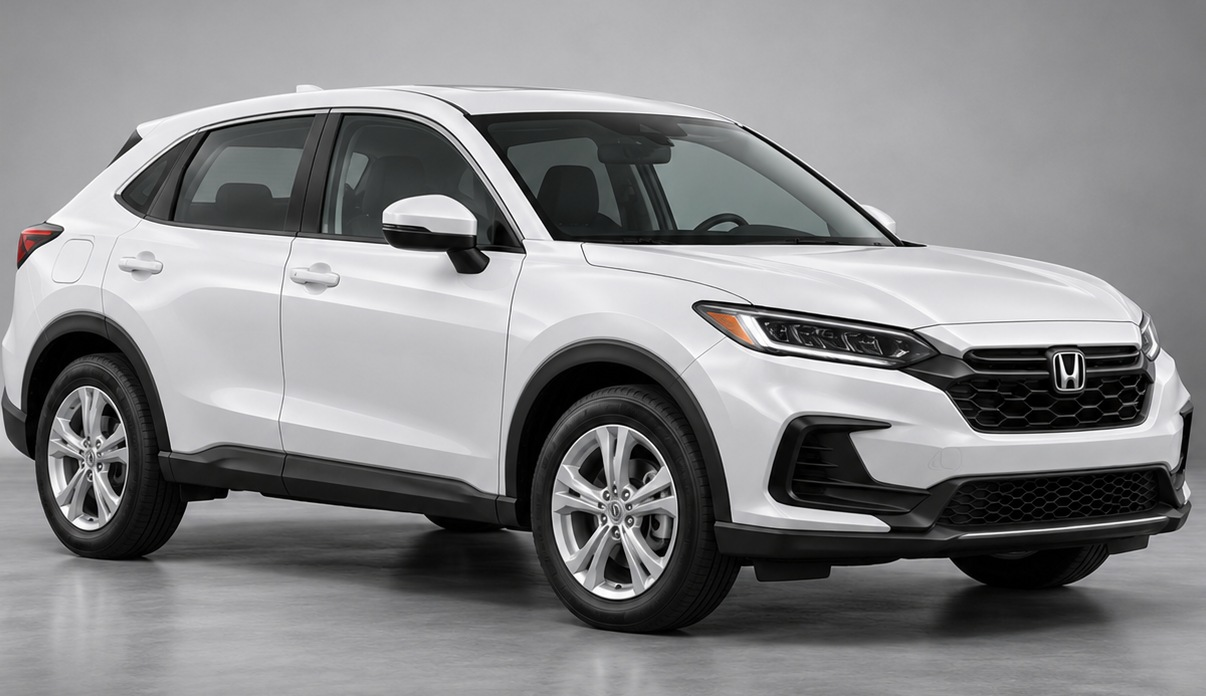
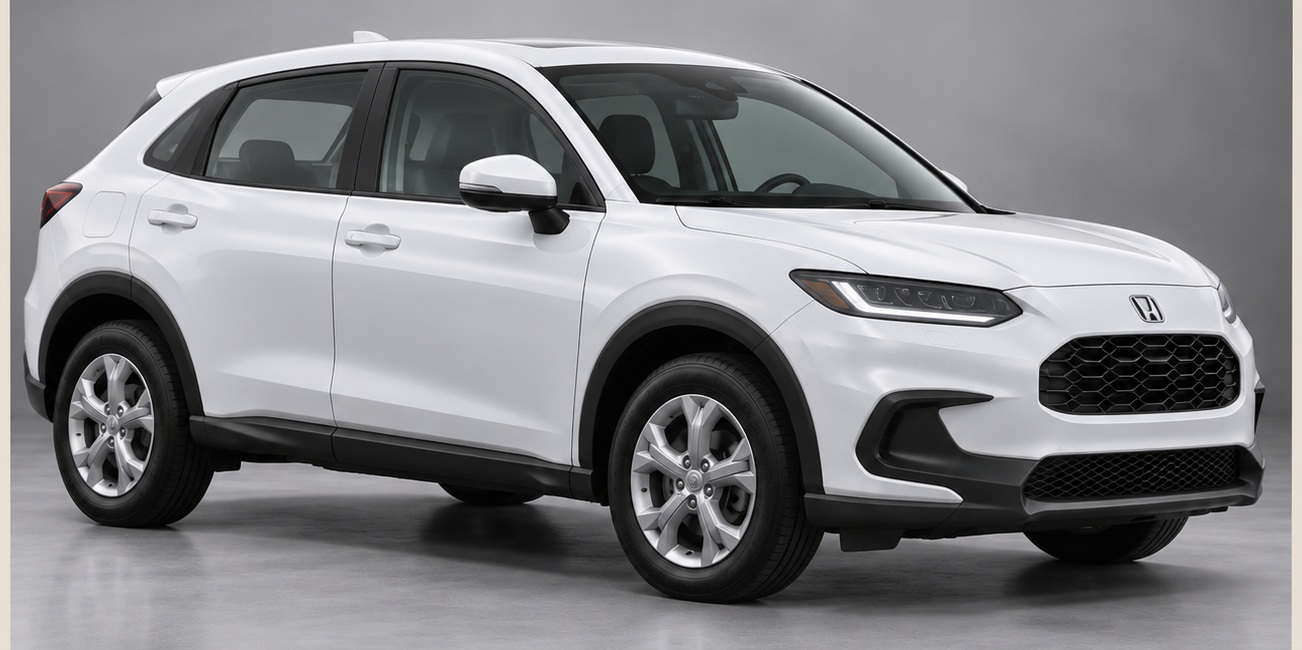
Add files via upload

diff --git a/style.css b/style.css
@@ -316,3 +316,166 @@ body{font-size:18px;line-height:1.72}
  .sticky-phone .sticky-arrow{right:8px!important;font-size:16px!important}
 }
 @media(max-width:370px){.logo{font-size:10px!important}.logo-symbol{width:32px!important;height:32px!important;flex-basis:32px!important}.head-call-copy{display:none!important}.head-call{padding:6px!important}.sticky-call b{font-size:10px!important}.sticky-call small{font-size:9px!important}.sticky-call>a.sticky-phone{flex-basis:52%!important}.sticky-phone strong{font-size:10.5px!important}}
+
+/* Final pass: consistent edge-to-edge card framing without an image-within-image effect. */
+.car-visual{overflow:hidden!important;background:#c9c7c2!important;border-radius:inherit}
+.car-visual .car-img{display:block!important;width:100%!important;height:100%!important;object-fit:contain!important;object-position:center center!important;padding:0!important;border:0!important;border-radius:0!important;background:transparent!important;box-shadow:none!important}
+.modal-photo{overflow:hidden!important;background:#c9c7c2!important;min-height:320px}
+.modal-photo::before,.modal-photo::after{display:none!important;content:none!important}
+.modal-photo img{display:block!important;width:100%!important;height:100%!important;object-fit:contain!important;object-position:center!important;padding:0!important;border:0!important;border-radius:0!important;background:transparent!important;box-shadow:none!important}
+.modal-body{padding-top:34px!important}
+.modal-kicker{visibility:visible!important;opacity:1!important;display:block!important;margin-top:0!important;padding-top:0!important;line-height:1.6!important}
+@media(max-width:620px){.modal-photo{height:clamp(230px,68vw,330px)!important;min-height:0!important}.modal-body{padding:25px 22px 28px!important}.modal-kicker{font-size:10px!important;letter-spacing:1.2px!important}.car-visual .car-img{object-fit:contain!important;padding:0!important}.sticky-call{min-height:78px!important;padding:9px 3% calc(9px + env(safe-area-inset-bottom))!important}.sticky-call b{font-size:clamp(11px,3.2vw,14px)!important}.sticky-call small{font-size:clamp(10px,2.9vw,12px)!important}.sticky-phone strong{font-size:clamp(11px,3.2vw,14px)!important}}
+
+/* Final vehicle-photo pass: preserve the complete vehicle and avoid nested image frames */
+.car-visual{background:#d4d0c8!important;overflow:hidden!important}
+.car-card .car-img{object-fit:contain!important;object-position:center center!important;inset:0!important;width:100%!important;height:100%!important;padding:8px 10px!important;transform:none!important;filter:none!important}
+.car-card:hover .car-img{transform:scale(1.015)!important}
+.modal-photo{background:#d4d0c8!important;overflow:hidden!important;display:flex!important;align-items:center!important;justify-content:center!important;padding:0!important}
+.modal-photo img{object-fit:contain!important;object-position:center center!important;width:100%!important;height:100%!important;max-height:100%!important;padding:0!important;filter:none!important}
+.modal-photo .category{z-index:2}
+@media(max-width:850px){.modal-photo{height:clamp(220px,42vw,330px)!important;min-height:220px!important}.modal-photo img{width:100%!important;height:100%!important;object-fit:contain!important;padding:0!important}}
+@media(max-width:620px){.car-card .car-visual{height:clamp(220px,62vw,300px)!important}.car-card .car-img{padding:4px 6px!important}.modal-photo{height:230px!important;min-height:230px!important}.modal-photo img{height:100%!important;object-fit:contain!important;padding:0!important}}
+
+/* FINAL FIX — remove the visible inner photo rectangle from every vehicle card */
+.car-visual{position:relative!important;overflow:hidden!important;background:#c9c7c2!important;}
+.car-visual .visual-pattern{display:none!important;}
+.car-visual .car-img{display:block!important;position:absolute!important;inset:0!important;width:100%!important;height:100%!important;max-width:none!important;max-height:none!important;object-fit:cover!important;object-position:center 58%!important;padding:0!important;margin:0!important;border:0!important;border-radius:0!important;background:transparent!important;box-shadow:none!important;filter:none!important;transform:none!important;}
+.car-card:hover .car-visual .car-img{transform:scale(1.025)!important;}
+@media(max-width:620px){.car-visual{height:clamp(280px,72vw,370px)!important}.car-visual .car-img{object-fit:cover!important;object-position:center 58%!important;padding:0!important}}
+
+
+/* FINAL OVERRIDE — keep every full vehicle visible in listing cards. */
+.car-visual{
+  position:relative!important;
+  height:clamp(260px, 32vw, 390px)!important;
+  min-height:260px!important;
+  overflow:hidden!important;
+  background:#c9c7c2!important;
+  border-radius:inherit!important;
+}
+.car-visual .visual-pattern{display:none!important}
+.car-visual .car-img{
+  position:absolute!important;inset:0!important;display:block!important;
+  width:100%!important;height:100%!important;max-width:100%!important;max-height:100%!important;
+  object-fit:contain!important;object-position:center center!important;
+  padding:8px!important;margin:0!important;border:0!important;border-radius:0!important;
+  background:transparent!important;box-shadow:none!important;filter:none!important;
+  transform:none!important;
+}
+.car-card:hover .car-visual .car-img{transform:none!important}
+.modal-photo{
+  position:relative!important;display:flex!important;align-items:center!important;justify-content:center!important;
+  overflow:hidden!important;min-height:0!important;height:100%!important;padding:0!important;
+  background:#c9c7c2!important;
+}
+.modal-photo::before,.modal-photo::after{display:none!important;content:none!important}
+.modal-photo #modalImage{
+  display:block!important;position:absolute!important;inset:0!important;
+  width:100%!important;height:100%!important;max-width:100%!important;max-height:100%!important;
+  object-fit:cover!important;object-position:center center!important;
+  padding:0!important;margin:0!important;border:0!important;border-radius:0!important;
+  background:transparent!important;box-shadow:none!important;filter:none!important;
+}
+@media(max-width:850px){
+  .car-visual{height:clamp(260px,55vw,350px)!important;min-height:260px!important}
+  .modal-photo{height:clamp(250px,58vw,360px)!important;min-height:250px!important}
+}
+@media(max-width:620px){
+  .car-visual{height:clamp(260px,72vw,340px)!important;min-height:260px!important}
+  .car-visual .car-img{padding:4px!important}
+  .modal-box{display:block!important;overflow:auto!important}
+  .modal-photo{height:clamp(240px,68vw,320px)!important;min-height:240px!important}
+  .modal-photo #modalImage{object-fit:cover!important;object-position:center center!important}
+}
+
+
+/* Definitive vehicle framing: show the complete landscape photo, never crop the car or use square modal composites. */
+.car-visual{
+  background:#b8b7ba!important;
+  overflow:hidden!important;
+}
+.car-visual .car-img{
+  position:absolute!important; inset:0!important;
+  width:100%!important; height:100%!important;
+  object-fit:contain!important; object-position:center center!important;
+  padding:0!important; margin:0!important;
+  border:0!important; border-radius:0!important;
+  background:transparent!important; box-shadow:none!important; filter:none!important;
+  transform:none!important;
+}
+.car-card:hover .car-visual .car-img{transform:none!important}
+.modal-photo{
+  position:relative!important; display:flex!important; align-items:center!important; justify-content:center!important;
+  overflow:hidden!important; background:#b8b7ba!important; padding:0!important;
+}
+.modal-photo::before,.modal-photo::after{display:none!important;content:none!important}
+.modal-photo #modalImage{
+  position:relative!important; inset:auto!important; display:block!important;
+  width:100%!important; height:100%!important; max-width:100%!important; max-height:100%!important;
+  object-fit:contain!important; object-position:center center!important;
+  padding:0!important; margin:0!important; border:0!important; border-radius:0!important;
+  background:transparent!important; box-shadow:none!important; filter:none!important;
+}
+@media(max-width:850px){
+ .car-visual{height:clamp(260px,55vw,350px)!important;min-height:260px!important}
+ .modal-photo{height:clamp(250px,58vw,360px)!important;min-height:250px!important}
+}
+@media(max-width:620px){
+ .car-visual{height:clamp(260px,72vw,340px)!important;min-height:260px!important}
+ .car-visual .car-img{padding:0!important;object-fit:contain!important}
+ .modal-photo{height:clamp(240px,68vw,320px)!important;min-height:240px!important}
+ .modal-photo #modalImage{object-fit:contain!important}
+}
+
+/* AUTO ALOHA FINAL PHOTO ART DIRECTION
+   The actual image files now contain the extended gray studio backdrop. Fill the whole visual area with those files. */
+.car-visual{
+  height:auto!important;
+  aspect-ratio:2.2 / 1!important;
+  min-height:0!important;
+  background:#b7b6b9!important;
+  overflow:hidden!important;
+  border-radius:19px 19px 0 0!important;
+}
+.car-visual .visual-pattern{display:none!important}
+.car-visual .car-img{
+  position:absolute!important;inset:0!important;display:block!important;
+  width:100%!important;height:100%!important;max-width:none!important;max-height:none!important;
+  object-fit:cover!important;object-position:center center!important;
+  padding:0!important;margin:0!important;border:0!important;border-radius:0!important;
+  background:transparent!important;box-shadow:none!important;filter:none!important;transform:none!important;
+}
+.car-card:hover .car-visual .car-img{transform:none!important}
+.modal-box{
+  width:min(1080px,94vw)!important;
+  height:min(680px,90vh)!important;
+  max-height:90vh!important;
+  grid-template-columns:1fr 1fr!important;
+  overflow:hidden!important;
+}
+.modal-photo{
+  position:relative!important;display:flex!important;align-items:center!important;justify-content:center!important;
+  height:100%!important;min-height:0!important;padding:0!important;overflow:hidden!important;
+  background:#b7b6b9!important;border-radius:0!important;
+}
+.modal-photo::before,.modal-photo::after{display:none!important;content:none!important}
+.modal-photo #modalImage{
+  position:relative!important;inset:auto!important;display:block!important;
+  width:100%!important;height:100%!important;max-width:100%!important;max-height:100%!important;
+  object-fit:contain!important;object-position:center center!important;
+  padding:0!important;margin:0!important;border:0!important;border-radius:0!important;
+  background:transparent!important;box-shadow:none!important;filter:none!important;transform:none!important;
+}
+@media(max-width:850px){
+  .car-visual{aspect-ratio:2.05 / 1!important}
+  .modal-box{width:min(700px,94vw)!important;height:min(88vh,760px)!important;grid-template-columns:1fr 1fr!important}
+}
+@media(max-width:620px){
+  .car-visual{aspect-ratio:1.95 / 1!important;height:auto!important;min-height:0!important}
+  .car-card .car-img{object-fit:cover!important;padding:0!important}
+  .modal-box{display:block!important;width:94vw!important;height:90dvh!important;max-height:90dvh!important;overflow:auto!important}
+  .modal-photo{width:100%!important;height:auto!important;min-height:0!important;aspect-ratio:4 / 5!important}
+  .modal-photo #modalImage{width:100%!important;height:100%!important;object-fit:contain!important}
+  .modal-body{padding:24px 22px 28px!important;overflow:visible!important}
+}

diff --git a/index.html b/index.html
@@ -15,10 +15,10 @@
 <section class="benefits" id="why"><div class="benefit"><span class="benefit-icon">＄</span><div><b>MONTHLY PRICING</b><small>From $699 / month</small></div></div><div class="benefit"><span class="benefit-icon">⌖</span><div><b>HONOLULU AIRPORT AREA</b><small>Pickup details by phone</small></div></div><div class="benefit"><span class="benefit-icon">P</span><div><b>FREE AIRPORT PARKING*</b><small>Ask us about the details</small></div></div><div class="benefit"><span class="benefit-icon">☎</span><div><b>PERSONAL SERVICE</b><small>Call to confirm your rental</small></div></div></section>
 <section class="fleet" id="cars"><div class="fleet-head"><div><div class="kicker dark"><span></span> MEET YOUR NEXT RIDE</div><h2>Pick your <em>island ride.</em></h2></div><p class="fleet-intro"><span>Made for the island.</span><br>Monthly rentals only — no daily or weekly bookings. Choose the right ride for your stay on Oʻahu, then call us to confirm availability.</p></div>
 <div class="cars-grid">
-<article class="car-card" tabindex="0" role="button" aria-label="View Toyota Prius details" data-car="prius"><div class="car-visual"><div class="visual-pattern"></div><img src="assets/toyota-prius.jpg" alt="Toyota Prius in a neutral gray studio setting" class="car-img"><span class="category">STANDARD</span><span class="capacity"><b>♟ 5</b><b>▣ 2</b></span><span class="card-view">VIEW DETAILS ↗</span></div><div class="car-info"><div class="model-line"><div><h3>Toyota Prius</h3><p>Fuel-efficient, comfortable, and ready for relaxed island driving.</p></div><div class="price"><strong>$699</strong><small>/ month</small></div></div><div class="features"><span>✓ Monthly rental</span><span>✓ Airport-area pickup</span></div><button class="details-btn" type="button">View car details <span>↗</span></button></div></article>
-<article class="car-card" tabindex="0" role="button" aria-label="View Toyota Corolla details" data-car="corolla"><div class="car-visual"><div class="visual-pattern"></div><img src="assets/toyota-corolla.jpg" alt="White Toyota Corolla in a neutral gray studio setting" class="car-img"><span class="category">ECONOMY</span><span class="capacity"><b>♟ 5</b><b>▣ 3</b></span><span class="card-view">VIEW DETAILS ↗</span></div><div class="car-info"><div class="model-line"><div><h3>Toyota Corolla</h3><p>A reliable, comfortable choice for city driving and day trips.</p></div><div class="price"><strong>$799</strong><small>/ month</small></div></div><div class="features"><span>✓ Monthly rental</span><span>✓ Easy to park</span></div><button class="details-btn" type="button">View car details <span>↗</span></button></div></article>
-<article class="car-card" tabindex="0" role="button" aria-label="View Nissan Altima details" data-car="altima"><div class="car-visual"><div class="visual-pattern"></div><img src="assets/nissan-altima.jpg" alt="Silver Nissan Altima sedan" class="car-img"><span class="category">FULL SIZE</span><span class="capacity"><b>♟ 5</b><b>▣ 2</b></span><span class="card-view">VIEW DETAILS ↗</span></div><div class="car-info"><div class="model-line"><div><h3>Nissan Altima</h3><p>A roomy sedan for longer drives and a little extra comfort.</p></div><div class="price"><strong>$899</strong><small>/ month</small></div></div><div class="features"><span>✓ Monthly rental</span><span>✓ Spacious sedan</span></div><button class="details-btn" type="button">View car details <span>↗</span></button></div></article>
-<article class="car-card" tabindex="0" role="button" aria-label="View Honda HR-V details" data-car="hrv"><div class="car-visual"><div class="visual-pattern"></div><img src="assets/honda-hrv.jpg" alt="White Honda HR-V SUV in a neutral gray studio setting" class="car-img"><span class="category">MIDSIZE SUV</span><span class="capacity"><b>♟ 5</b><b>▣ 4</b></span><span class="card-view">VIEW DETAILS ↗</span></div><div class="car-info"><div class="model-line"><div><h3>Honda HR-V</h3><p>A versatile SUV with a comfortable ride and extra space for island adventures.</p></div><div class="price"><strong>$2,000</strong><small>/ month</small></div></div><div class="features"><span>✓ Monthly rental</span><span>✓ Extra cargo space</span></div><button class="details-btn" type="button">View car details <span>↗</span></button></div></article>
+<article class="car-card" tabindex="0" role="button" aria-label="View Toyota Prius details" data-car="prius"><div class="car-visual"><div class="visual-pattern"></div><img src="assets/toyota-prius-card.jpg" alt="Toyota Prius in a neutral gray studio setting" class="car-img"><span class="category">STANDARD</span><span class="capacity"><b>♟ 5</b><b>▣ 2</b></span><span class="card-view">VIEW DETAILS ↗</span></div><div class="car-info"><div class="model-line"><div><h3>Toyota Prius</h3><p>Fuel-efficient, comfortable, and ready for relaxed island driving.</p></div><div class="price"><strong>$699</strong><small>/ month</small></div></div><div class="features"><span>✓ Monthly rental</span><span>✓ Airport-area pickup</span></div><button class="details-btn" type="button">View car details <span>↗</span></button></div></article>
+<article class="car-card" tabindex="0" role="button" aria-label="View Toyota Corolla details" data-car="corolla"><div class="car-visual"><div class="visual-pattern"></div><img src="assets/toyota-corolla-card.jpg" alt="White Toyota Corolla in a neutral gray studio setting" class="car-img"><span class="category">ECONOMY</span><span class="capacity"><b>♟ 5</b><b>▣ 3</b></span><span class="card-view">VIEW DETAILS ↗</span></div><div class="car-info"><div class="model-line"><div><h3>Toyota Corolla</h3><p>A reliable, comfortable choice for city driving and day trips.</p></div><div class="price"><strong>$799</strong><small>/ month</small></div></div><div class="features"><span>✓ Monthly rental</span><span>✓ Easy to park</span></div><button class="details-btn" type="button">View car details <span>↗</span></button></div></article>
+<article class="car-card" tabindex="0" role="button" aria-label="View Nissan Altima details" data-car="altima"><div class="car-visual"><div class="visual-pattern"></div><img src="assets/nissan-altima-card.jpg" alt="Silver Nissan Altima sedan" class="car-img"><span class="category">FULL SIZE</span><span class="capacity"><b>♟ 5</b><b>▣ 2</b></span><span class="card-view">VIEW DETAILS ↗</span></div><div class="car-info"><div class="model-line"><div><h3>Nissan Altima</h3><p>A roomy sedan for longer drives and a little extra comfort.</p></div><div class="price"><strong>$899</strong><small>/ month</small></div></div><div class="features"><span>✓ Monthly rental</span><span>✓ Spacious sedan</span></div><button class="details-btn" type="button">View car details <span>↗</span></button></div></article>
+<article class="car-card" tabindex="0" role="button" aria-label="View Honda HR-V details" data-car="hrv"><div class="car-visual"><div class="visual-pattern"></div><img src="assets/honda-hrv-card.jpg" alt="White Honda HR-V SUV in a neutral gray studio setting" class="car-img"><span class="category">MIDSIZE SUV</span><span class="capacity"><b>♟ 5</b><b>▣ 4</b></span><span class="card-view">VIEW DETAILS ↗</span></div><div class="car-info"><div class="model-line"><div><h3>Honda HR-V</h3><p>A versatile SUV with a comfortable ride and extra space for island adventures.</p></div><div class="price"><strong>$999</strong><small>/ month</small></div></div><div class="features"><span>✓ Monthly rental</span><span>✓ Extra cargo space</span></div><button class="details-btn" type="button">View car details <span>↗</span></button></div></article>
 </div><p class="fineprint">MONTHLY RENTALS ONLY. No daily or weekly rentals are offered. Vehicle images represent example models; actual vehicle, availability, passenger and luggage capacity may vary. Monthly rates and rental terms are confirmed by phone. *Confirm airport parking eligibility and conditions with our team.</p></section>
 <section class="banner"><div class="banner-photo"></div><div class="banner-copy"><div class="kicker"><span></span> THE ISLAND IS WAITING</div><h2>More exploring.<br><em>Less figuring it out.</em></h2><p>We offer monthly rentals only. Tell us which vehicle category suits your stay and call to confirm availability, monthly pricing, and pickup arrangements.</p><a href="tel:+18088001978" class="primary">CALL AUTO ALOHA <span>↗</span></a></div></section>
 <section class="reviews" id="reviews" aria-label="Monthly rental benefits">

diff --git a/app.js b/app.js
@@ -1,11 +1,11 @@
 const fleet={
-prius:{name:'Toyota Prius',category:'STANDARD',price:'$699',description:'Fuel-efficient, comfortable, and ready for relaxed island driving. A practical option for exploring Honolulu, making everyday stops, and taking scenic drives around Oʻahu.',features:['Monthly rental only','5 passengers*','2 bags*','Airport-area pickup','Free airport parking*'],images:['assets/toyota-prius.jpg']},
-corolla:{name:'Toyota Corolla',category:'ECONOMY',price:'$799',description:'A reliable, comfortable choice for city driving and day trips. The Corolla is a practical fit for getting around Honolulu and exploring the island at your own pace.',features:['Monthly rental only','5 passengers*','3 bags*','Easy to park','Free airport parking*'],images:['assets/toyota-corolla.jpg']},
-altima:{name:'Nissan Altima',category:'FULL SIZE CAR',price:'$899',description:'A roomier sedan designed for a relaxed ride. Choose this category if you prefer extra cabin space for longer drives between Honolulu, the North Shore, and the island’s coastal viewpoints.',features:['Monthly rental only','5 passengers*','2 bags*','Roomy sedan','Free airport parking*'],images:['assets/nissan-altima.jpg']},
-hrv:{name:'Honda HR-V',category:'MIDSIZE SUV',price:'$2,000',description:'A versatile SUV-style option with a higher seating position and extra room for beach gear, shopping bags, and day-trip essentials. A useful choice for travelers who want more flexibility during a monthly stay.',features:['Monthly rental only','5 passengers*','4 bags*','Extra cargo room','Free airport parking*'],images:['assets/honda-hrv.jpg']}
+prius:{name:'Toyota Prius',category:'STANDARD',price:'$699',description:'Fuel-efficient, comfortable, and ready for relaxed island driving. A practical option for exploring Honolulu, making everyday stops, and taking scenic drives around Oʻahu.',features:['Monthly rental only','5 passengers*','2 bags*','Airport-area pickup','Free airport parking*'],images:['assets/toyota-prius-portrait.jpg'],modalImage:'assets/toyota-prius-portrait.jpg'},
+corolla:{name:'Toyota Corolla',category:'ECONOMY',price:'$799',description:'A reliable, comfortable choice for city driving and day trips. The Corolla is a practical fit for getting around Honolulu and exploring the island at your own pace.',features:['Monthly rental only','5 passengers*','3 bags*','Easy to park','Free airport parking*'],images:['assets/toyota-corolla-portrait.jpg'],modalImage:'assets/toyota-corolla-portrait.jpg'},
+altima:{name:'Nissan Altima',category:'FULL SIZE CAR',price:'$899',description:'A roomier sedan designed for a relaxed ride. Choose this category if you prefer extra cabin space for longer drives between Honolulu, the North Shore, and the island’s coastal viewpoints.',features:['Monthly rental only','5 passengers*','2 bags*','Roomy sedan','Free airport parking*'],images:['assets/nissan-altima-portrait.jpg'],modalImage:'assets/nissan-altima-portrait.jpg'},
+hrv:{name:'Honda HR-V',category:'MIDSIZE SUV',price:'$999',description:'A versatile SUV-style option with a higher seating position and extra room for beach gear, shopping bags, and day-trip essentials. A useful choice for travelers who want more flexibility during a monthly stay.',features:['Monthly rental only','5 passengers*','4 bags*','Extra cargo room','Free airport parking*'],images:['assets/honda-hrv-portrait.jpg'],modalImage:'assets/honda-hrv-portrait.jpg'}
 };
 const modal=document.querySelector('#carModal'),img=document.querySelector('#modalImage'),title=document.querySelector('#modalTitle'),category=document.querySelector('#modalCategory'),description=document.querySelector('#modalDescription'),price=document.querySelector('#modalPrice'),features=document.querySelector('#modalFeatures'),dots=document.querySelector('#photoDots');let active=null,idx=0;
-function showPhoto(){const c=fleet[active];img.src=c.images[0];img.alt=c.name+' representative vehicle photo';const photoPanel=img.closest('.modal-photo');if(photoPanel)photoPanel.style.setProperty('--vehicle-image',`url(\"${img.src}\")`);if(dots)dots.innerHTML=''}
+function showPhoto(){const c=fleet[active];img.src=c.modalImage||c.images[0];img.alt=c.name+' representative vehicle photo';const photoPanel=img.closest('.modal-photo');if(photoPanel)photoPanel.style.setProperty('--vehicle-image',`url(\"${img.src}\")`);if(dots)dots.innerHTML=''}
 function openCar(key){active=key;idx=0;const modalBody=modal.querySelector('.modal-body');if(modalBody)modalBody.scrollTop=0;modal.scrollTop=0;const c=fleet[key];title.textContent=c.name;category.textContent=c.category;description.textContent=c.description;price.textContent=c.price;features.innerHTML=c.features.map(f=>'<span>✓ '+f+'</span>').join('');showPhoto();modal.classList.add('open');modal.setAttribute('aria-hidden','false');document.body.style.overflow='hidden';const closeButton=modal.querySelector('.close-modal');if(closeButton)closeButton.focus()}
 function closeCar(){modal.classList.remove('open');modal.setAttribute('aria-hidden','true');document.body.style.overflow=''}
 document.querySelector('.cars-grid').addEventListener('click',e=>{const card=e.target.closest('.car-card');if(card){e.preventDefault();openCar(card.dataset.car)}});document.querySelectorAll('.car-card').forEach(card=>card.addEventListener('keydown',e=>{if(e.key==='Enter'||e.key===' '){e.preventDefault();openCar(card.dataset.car)}}));
